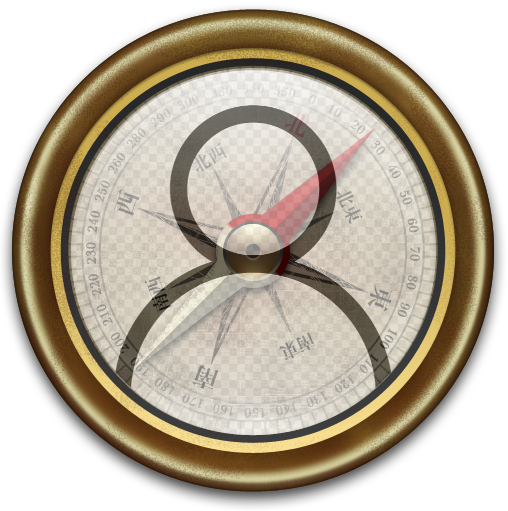
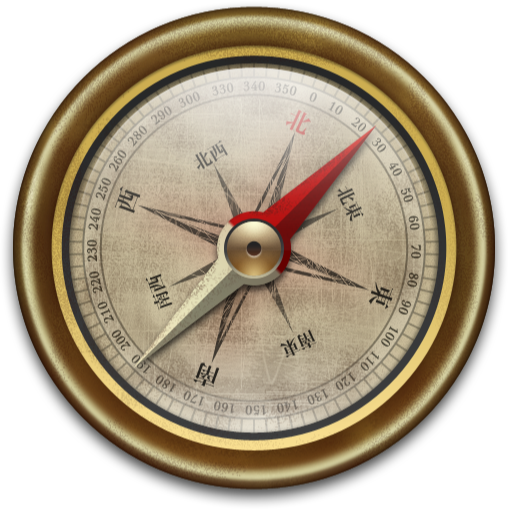
master

diff --git a/backend/controllers/usersControllers.js b/backend/controllers/usersControllers.js
@@ -134,13 +134,9 @@ const usersControllers = {
             }
             else {
                 if (usuario.emailVerificado) {
-                    console.log("verificacion de email 20:24")
                     let passwordCoincide = bcryptjs.compareSync(password, usuario.password)
                     console.log(passwordCoincide)
                     if (passwordCoincide) {
-
-                        console.log("password coinccide")
-                        
                         const token = jwt.sign({ ...usuario }, process.env.SECRETKEY)
                         const datosUser = {
                             firstName: usuario.firstName,
@@ -150,7 +146,6 @@ const usersControllers = {
                         }
                         usuario.connected = true
                         await usuario.save()
-                        console.log(usuario)
                         res.json({
                             success: true, from: "controller", response: { token, datosUser }, message: "Welcome back " + usuario.firstName.toUpperCase() })
                     }

diff --git a/src/components/CardLog.js b/src/components/CardLog.js
@@ -40,7 +40,7 @@ const CardLog = () => {
                 className="btn btn bg-transparent">
                 {!user ?
                     <img src={imgCompassLogOut} width="40" height="40" alt="ícono de Logueo SignIn y SignUp" />
-                    : <img onClick={() => cerrarCesion()} src={imgCompassLog} width="40" height="40" alt="ícono de Logueo SignIn y SignUp" />}
+                    : <img className="App-logoIn" onClick={() => cerrarCesion()} src={imgCompassLog} width="80" height="80" alt="ícono de Logueo SignIn y SignUp" />}
             </button>
 
 

diff --git a/src/App.css b/src/App.css
@@ -16,6 +16,22 @@
   }
 }
 
+@media (prefers-reduced-motion: no-preference) {
+  .App-logoIn {
+    animation: App-logoIn-spin infinite 90s linear;
+  }
+}
+
+
+@keyframes App-logoIn-spin {
+  from {
+    transform: rotate(0deg);
+  }
+  to {
+    transform: rotate(-360deg);
+  }
+}
+
 
 /* NAVBAR INICIO */
 
